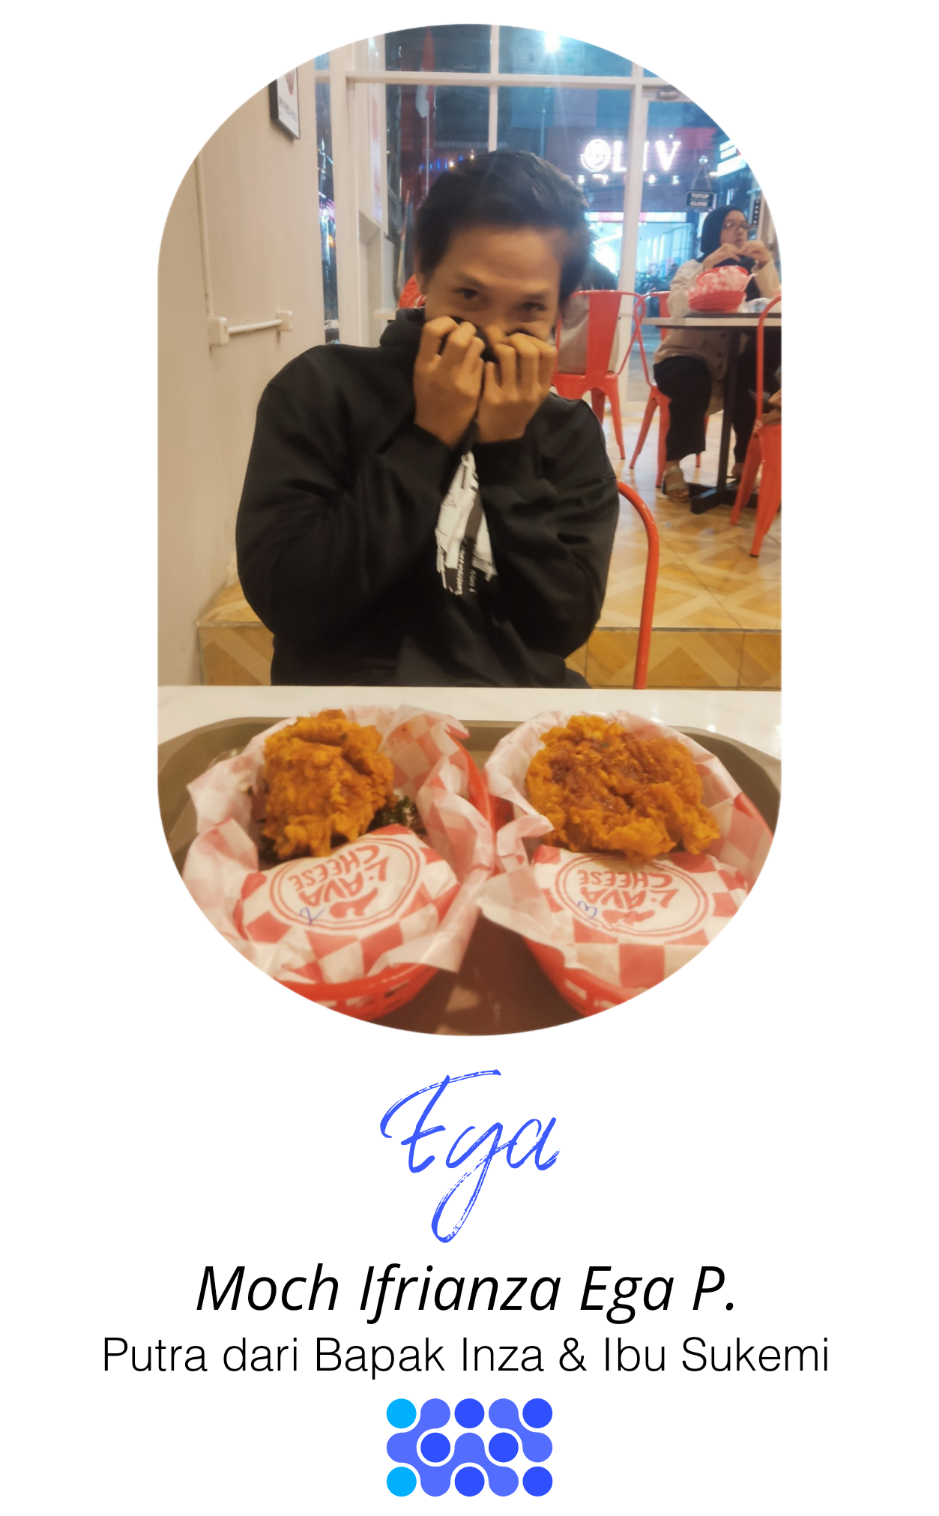
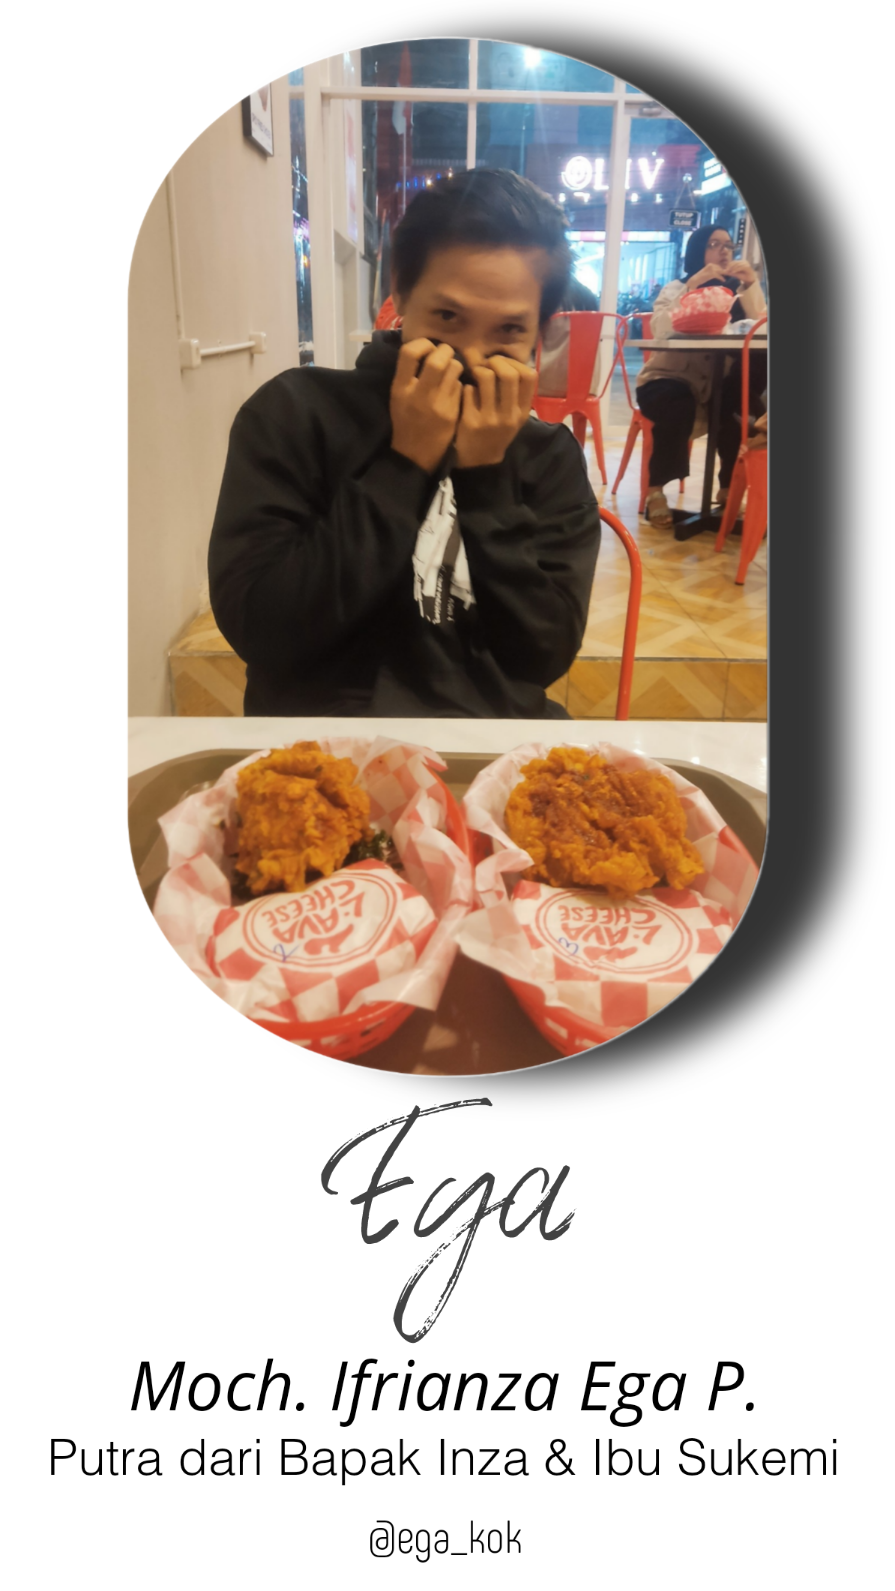
update

Changed region(s): [[0.0603, 0.0, 0.9955, 0.9921], [0.4525, 0.341, 0.4827, 0.403], [0.5128, 0.341, 0.543, 0.372]]

diff --git a/script.js b/script.js
@@ -17,40 +17,49 @@ window.addEventListener("scroll", () => {
 });
 
 document.addEventListener("DOMContentLoaded", () => {
-  // 🌸 Fade-in untuk tanggal & ayat (boleh reset)
-  const fadeItems = document.querySelectorAll("#tanggal, .main-img, #ayat, #ayat .dual-layer");
-  const fadeObserver = new IntersectionObserver(entries => {
-    entries.forEach(entry => {
-      if (entry.isIntersecting) {
-        entry.target.classList.add("show");
-      } else {
-        entry.target.classList.remove("show");
-      }
-    });
-  }, { threshold: 0.4 });
+  const fadeItems = document.querySelectorAll("#tanggal, .main-img, #ayat, #ayat .dual-layer, .fade-img, #doa, .doa-img");
+  let lastScrollY = window.scrollY;
+  let scrollDir = "down";
 
-  fadeItems.forEach(item => fadeObserver.observe(item));
+  // 🔁 Deteksi arah scroll
+  window.addEventListener(
+    "scroll",
+    () => {
+      const y = window.scrollY;
+      scrollDir = y > lastScrollY ? "down" : "up";
+      lastScrollY = y;
+    },
+    { passive: true }
+  );
 
-  // 🌸 DOA SECTION — animasi muncul sekali saja
-  const doaSection = document.querySelector("#doa");
-  if (doaSection) {
-    const doaObserver = new IntersectionObserver(entries => {
-      entries.forEach(entry => {
-        if (entry.isIntersecting) {
-          console.log("✅ Doa section terlihat");
-          const doaItems = doaSection.querySelectorAll(".doa-img");
-          doaItems.forEach((img, index) => {
-            setTimeout(() => {
-              img.classList.add("show");
-            }, index * 400);
-          });
-          doaObserver.unobserve(doaSection);
+  // 🔍 Observer
+  const fadeObserver = new IntersectionObserver(
+    (entries) => {
+      entries.forEach((entry) => {
+        const el = entry.target;
+        const rect = el.getBoundingClientRect();
+        const viewportH = window.innerHeight;
+
+        // 🟢 Jika elemen MASUK viewport & scroll ke bawah → tampil
+        if (entry.isIntersecting && scrollDir === "down") {
+          el.classList.add("show");
+        }
+
+        // 🔴 Jika elemen KELUAR & scroll ke bawah → reset hanya bila keluar lewat bawah
+        if (!entry.isIntersecting && scrollDir === "down") {
+          if (rect.top > viewportH) {
+            el.classList.remove("show");
+          }
         }
       });
-    }, { threshold: 0.15 });
+    },
+    {
+      threshold: 0.2, // sensitivitas muncul
+      rootMargin: "0px 0px -10% 0px", // sedikit buffer bawah
+    }
+  );
 
-    doaObserver.observe(doaSection);
-  }
+  fadeItems.forEach((item) => fadeObserver.observe(item));
 
   // 🌸 Tombol interaktif “Catch Me”
   const btn = document.getElementById("catchMe");
@@ -73,3 +82,18 @@ document.addEventListener("DOMContentLoaded", () => {
     }
   }
 });
+
+const saranSection = document.querySelector("#saran");
+if (saranSection) {
+  const saranObserver = new IntersectionObserver(entries => {
+    entries.forEach(entry => {
+      if (entry.isIntersecting) {
+        document.body.classList.add("parallax-off");
+      } else {
+        document.body.classList.remove("parallax-off");
+      }
+    });
+  }, { threshold: 0.9 });
+
+  saranObserver.observe(saranSection);
+}

diff --git a/style.css b/style.css
@@ -7,6 +7,7 @@ html, body {
   overflow-y: scroll;
   overflow-x: hidden;
   scroll-behavior: smooth;
+  overscroll-behavior: contain;
 }
 
 .page, .section {
@@ -282,7 +283,7 @@ to { opacity: 1; transform: translateY(0); }
   width: 100%;
   height: 100%;
   background: url('bg4.jpg') center/cover no-repeat;
-  z-index: -3;
+  z-index: -5;
 }
 
 /* 🌸 Lapisan lembut */
@@ -292,7 +293,7 @@ to { opacity: 1; transform: translateY(0); }
   inset: 0;
   backdrop-filter: blur(6px);
   background: rgba(0, 0, 0, 0.5);
-  z-index: -2;
+  z-index: -4;
 }
 
 /* 🌸 Dual layer container */
@@ -308,10 +309,10 @@ to { opacity: 1; transform: translateY(0); }
 
 /* 🌸 Gambar dasar panjang */
 #doa .base-img {
-  width: 90%;
+  width: 95%;
   max-width: 500px;
   height: auto;
-  opacity: 1;
+  opacity: 80;
   position: relative;
   margin: 0 auto;
   z-index: 1;
@@ -338,14 +339,16 @@ to { opacity: 1; transform: translateY(0); }
   opacity: 0;
   transition: opacity 1s ease, transform 1s ease;
 }
-
+.con1 {
+  width: 90%;
+}
 .con3 {
   width: 60%;
 }
 /* 🌸 Posisi vertikal (atur sesuai tinggi base panjang) */
-.con1 { top: 7%; }
+.con1 { top: 4%; }
 .con2 { top: 25%; }
-.con3 { top: 52%; }
+.con3 { top: 53%; }
 .con4 { top: 65%; }
 
 /* 🌸 Saat animasi aktif (class .show dari JS) */
@@ -360,16 +363,33 @@ to { opacity: 1; transform: translateY(0); }
 .doa-img.con3.show { transition-delay: 0.6s; }
 .doa-img.con4.show { transition-delay: 0.8s; }
 
+
 #saran.page.section {
   position: relative;
   min-height: 100vh;
+  background: url('bg5.jpg') center/cover no-repeat;
   display: flex;
   justify-content: center;
   align-items: center;
-  padding-bottom: 100px; /* ruang ekstra saat keyboard naik */
   box-sizing: border-box;
+  z-index: 5;
 }
-
+.saran-container {
+  background: rgba(255, 255, 255, 0.08);
+  backdrop-filter: blur(8px);
+  border-radius: 15px;
+  padding: 30px 20px;
+  width: 100%;
+  max-width: 400px;
+  /* 🌸 tambahkan tinggi minimal */
+  height: 100%; /* ubah nilai sesuai selera, misal 550px */
+  display: flex;
+  flex-direction: column;
+  justify-content: center;
+  align-items: center;
+  padding-bottom: 100px;
+  box-shadow: 0 0 20px rgba(0,0,0,0.2);
+}
 /* 🌸 Container utama */
 .form-container {
   background: rgba(0,0,0,0.35);
@@ -382,12 +402,19 @@ to { opacity: 1; transform: translateY(0); }
   text-align: center;
   color: #fff;
 }
+#saran {
+  position: relative;
+  isolation: isolate; /* 🧱 memaksa lapisan di bawahnya tidak terlihat */
+}
 
 /* 🌸 Judul */
 .form-container h2 {
   font-size: 1.3em;
   font-weight: 700;
   margin-bottom: 25px;
+}
+.saran-title h2{
+  color: #fff;
 }
 
 /* 🌸 Input umum */
@@ -467,4 +494,8 @@ to { opacity: 1; transform: translateY(0); }
 
 .submit-btn:hover {
   background: #275ed8;
+}
+
+body.parallax-off #doa::before {
+  position: absolute !important;
 }
